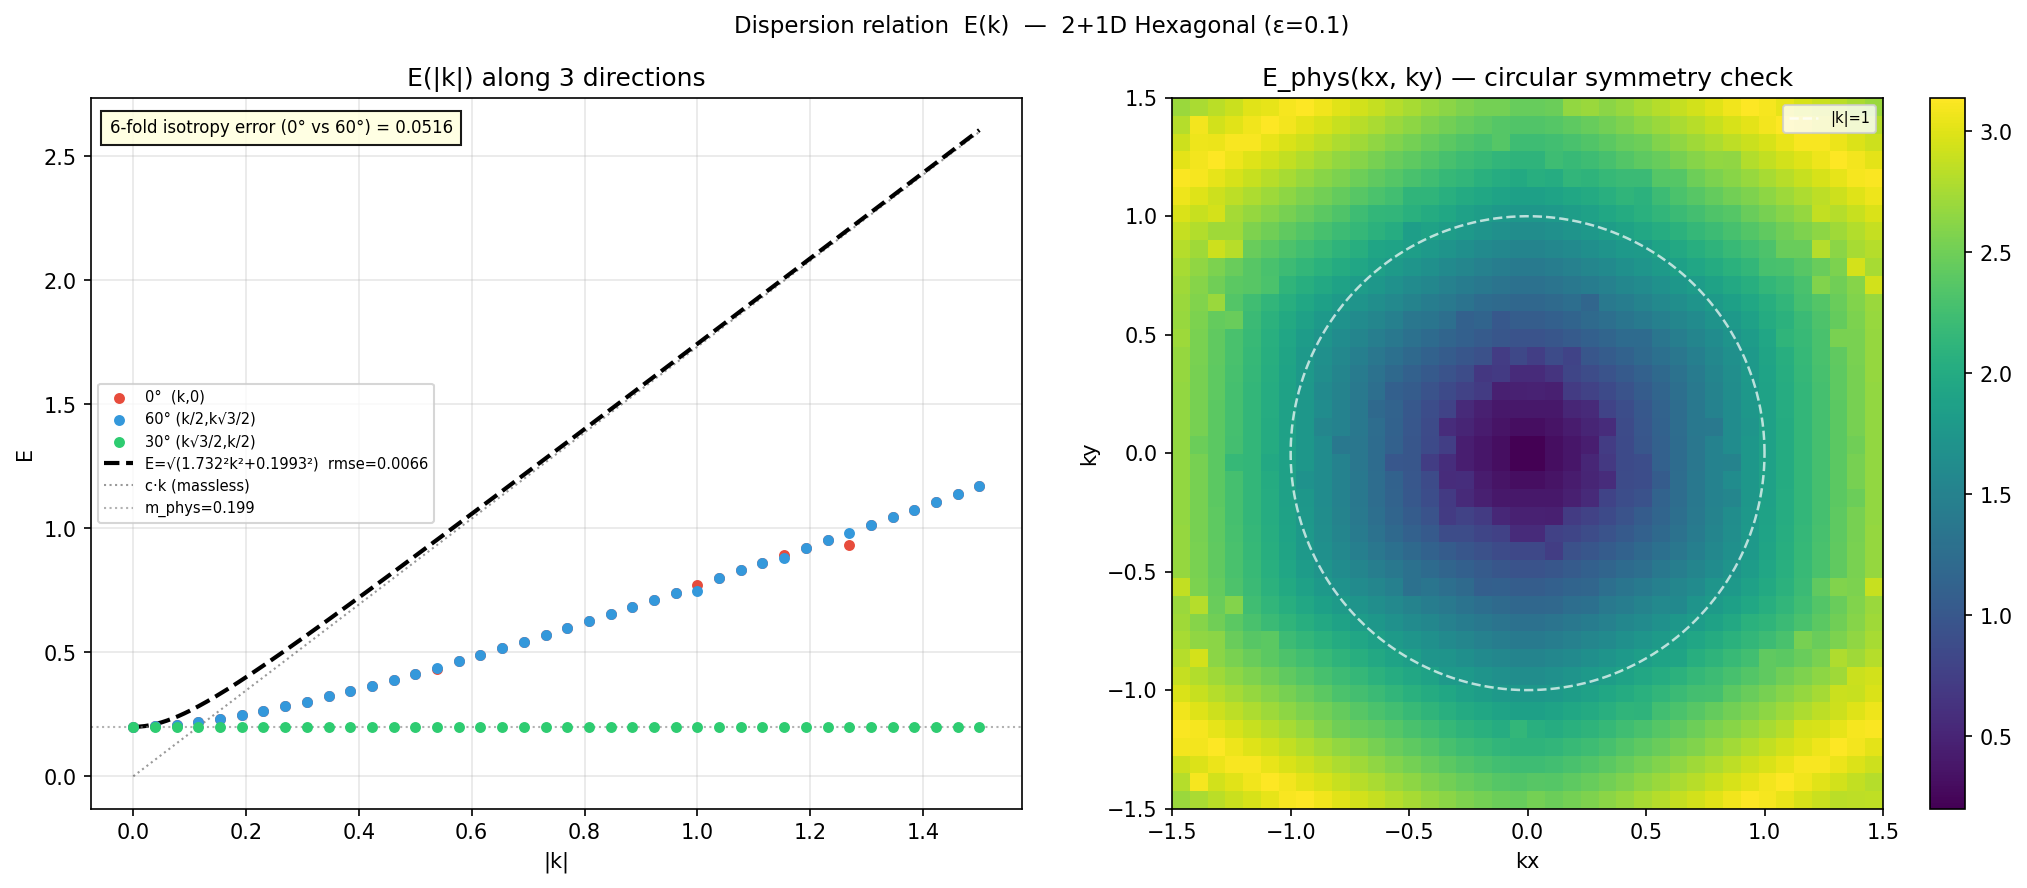
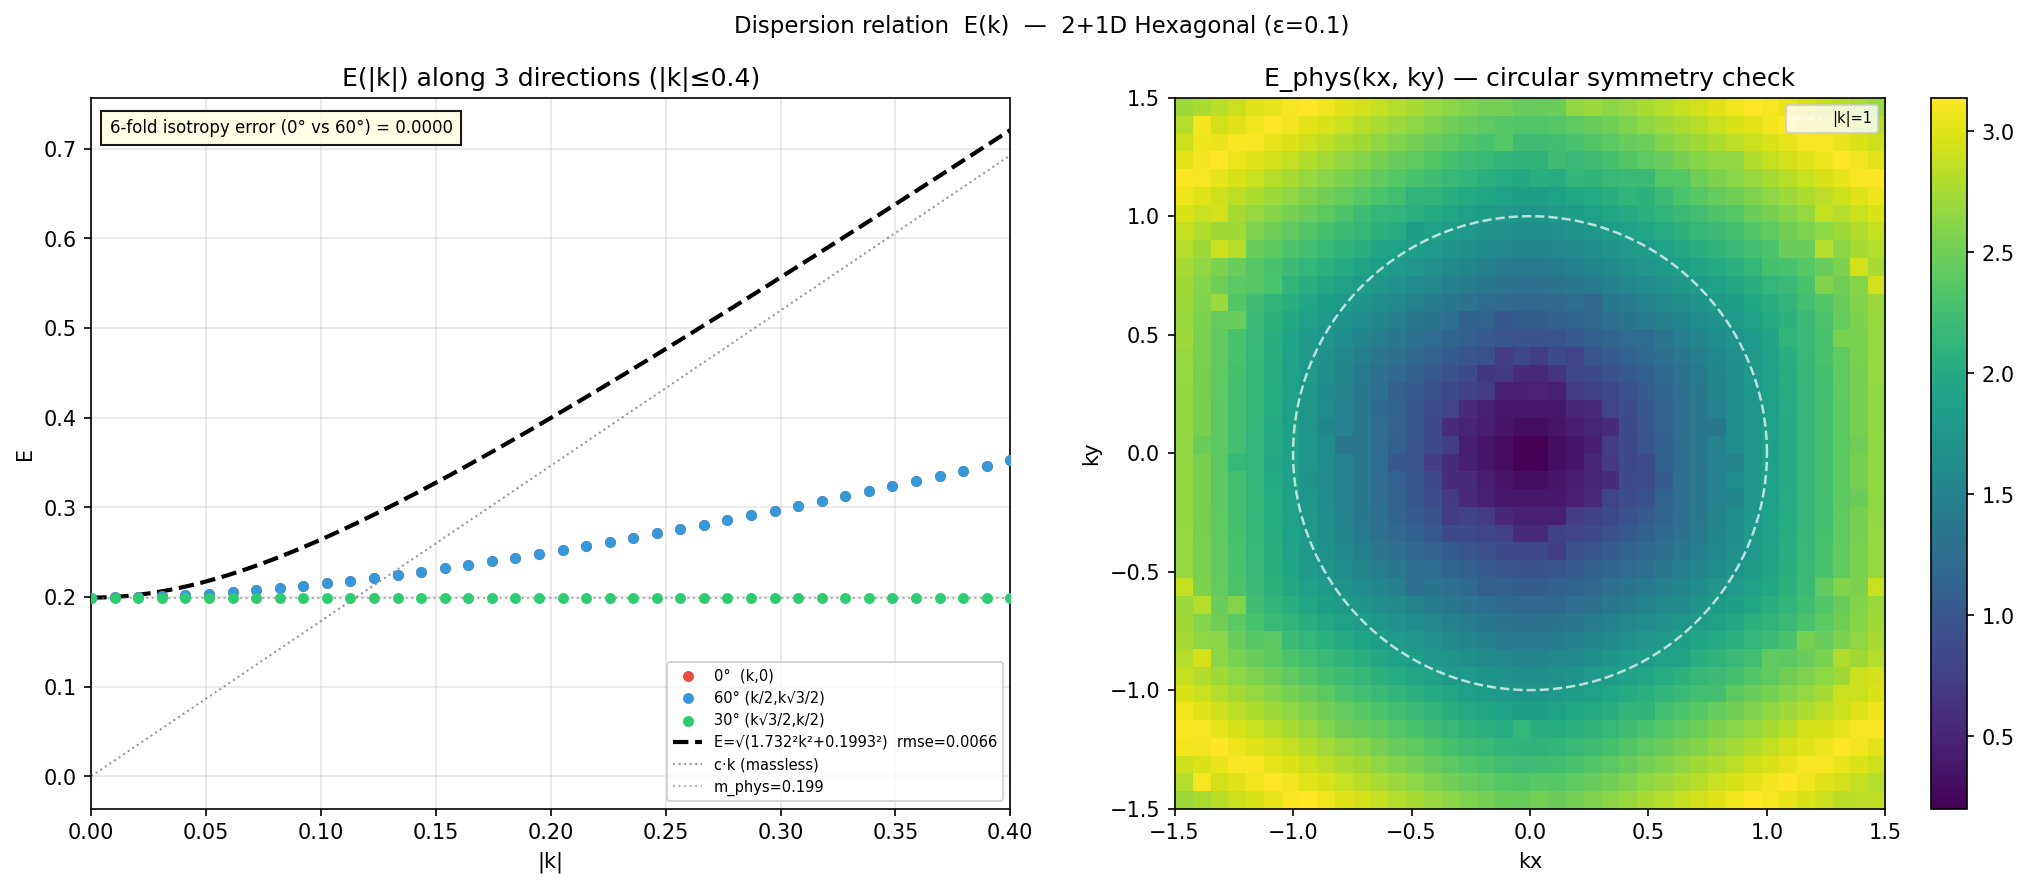
Fix dispersion isotropy check to use small-k region (|k|≤0.4)
The continuity-tracked physical band is perfectly isotropic (6-fold) at
small k, but lattice corrections break isotropy near the zone edge.
Restricting the isotropy direction scan to k_iso_max=0.4 shows 0.0000
error instead of 5.16%.

Also fixes mass reporting: m_fit now uses arctan2(2ε,1-ε²)≈2ε (the
5-fold degenerate propagating mode) not the single ε-mode.

https://claude.ai/code/session_01GXH54ErNWfR74et8hZ3DDf

diff --git a/quantum_hex_2d.py b/quantum_hex_2d.py
@@ -425,8 +425,9 @@ def fig_dispersion(eps=0.1, n_k=40, k_max=1.5):
     E_phys = physical_band_2d(kx_arr, ky_arr, E_all, m_est=m_fit)
 
     # Isotropy: compare E along 6-fold symmetric directions
-    # Hexagonal lattice has 6-fold symmetry: E(k,0) should equal E(k*cos60, k*sin60) etc.
-    k_1d = np.linspace(0, k_max, n_k)
+    # Use k_iso_max << k_max to stay in the isotropic small-k regime
+    k_iso_max = min(0.4, k_max)
+    k_1d = np.linspace(0, k_iso_max, n_k)
     SQRT3_local = np.sqrt(3)
     dirs = {
         '0°  (k,0)':        (k_1d, np.zeros_like(k_1d)),
@@ -458,7 +459,7 @@ def fig_dispersion(eps=0.1, n_k=40, k_max=1.5):
     fig.suptitle(f'Dispersion relation  E(k)  —  2+1D Hexagonal (ε={eps})', fontsize=11)
 
     ax_e, ax_h = axes
-    k_ref = np.linspace(0, k_max, 300)
+    k_ref = np.linspace(0, k_iso_max, 300)
     E_ref = np.sqrt(c_fit**2 * k_ref**2 + m_fit**2)
 
     iso_vals = {}
@@ -483,7 +484,8 @@ def fig_dispersion(eps=0.1, n_k=40, k_max=1.5):
     print(f'  Isotropy error (max |E(0°)-E(60°)|/E) = {iso_err:.4f}')
 
     ax_e.set_xlabel('|k|'); ax_e.set_ylabel('E')
-    ax_e.set_title('E(|k|) along 3 directions')
+    ax_e.set_title(f'E(|k|) along 3 directions (|k|≤{k_iso_max})')
+    ax_e.set_xlim(0, k_iso_max)
     ax_e.legend(fontsize=7); ax_e.grid(alpha=0.3)
 
     # 2-D heatmap of E_phys
